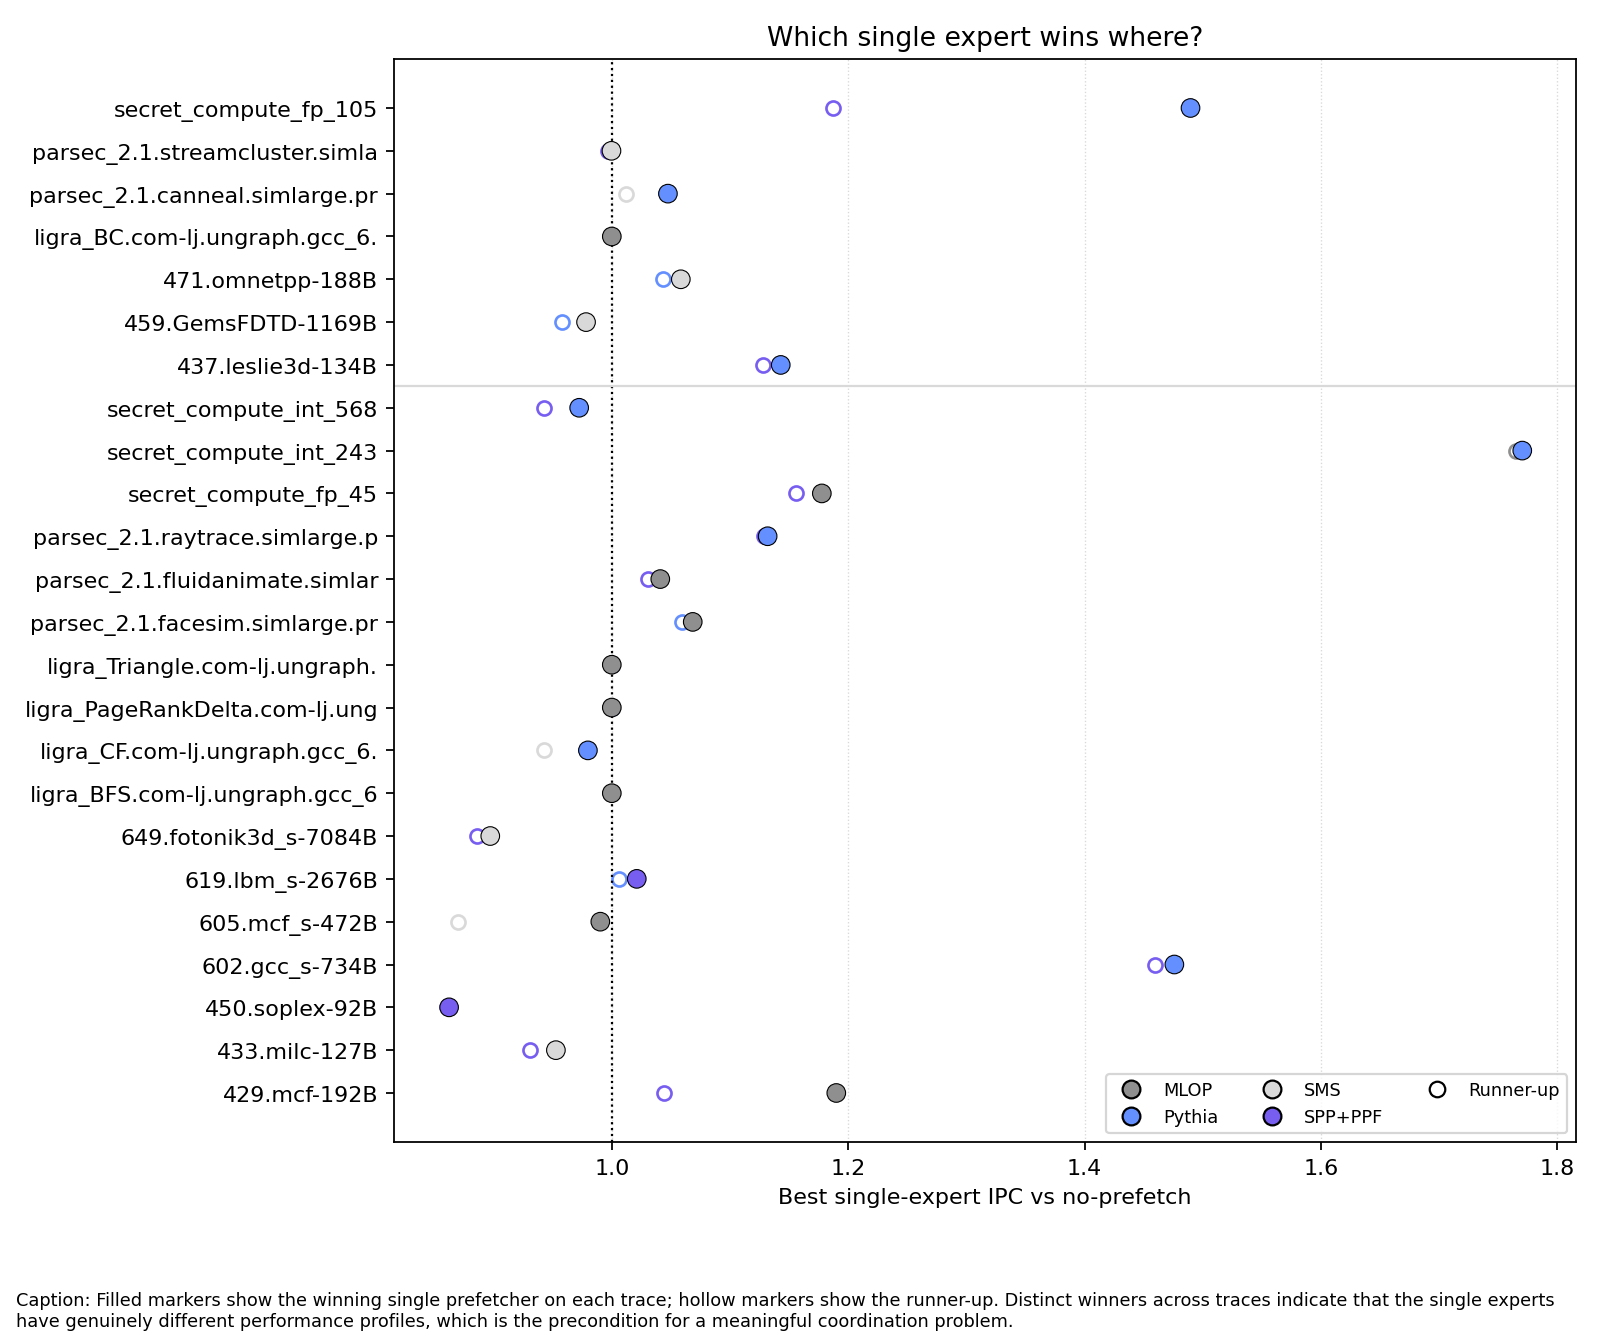
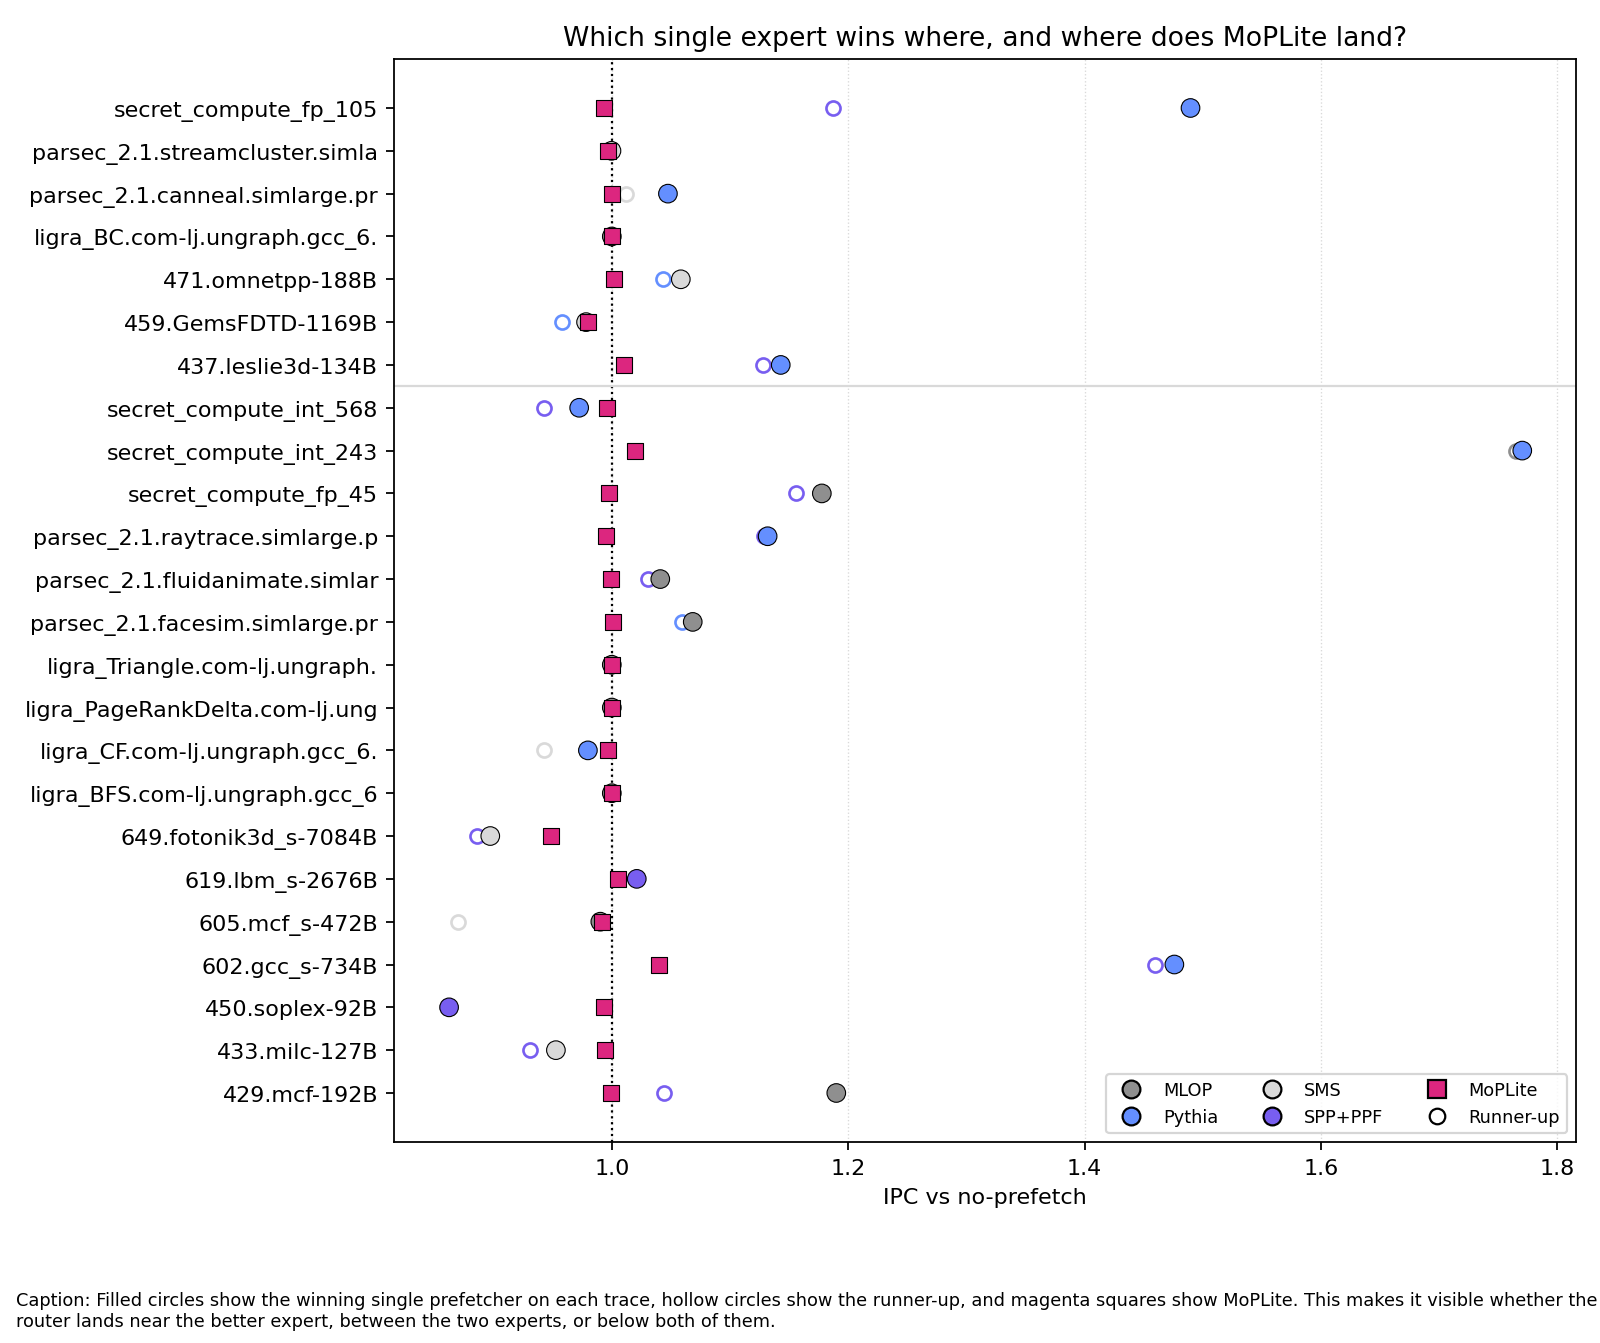
report(stage1): finalize presentation plots and router comparisons

diff --git a/external/athena/src/oogway.cc b/external/athena/src/oogway.cc
@@ -71,13 +71,13 @@ Oogway::Oogway(uint32_t _cpu) : cpu(_cpu) {
   if (knob::mop_enable) {
     srand48(knob::mop_seed + cpu);
     initialize_mop_epoch();
-    if (!knob::mop_epoch_trace.empty()) {
-      std::string filename = knob::mop_epoch_trace + ".core" + std::to_string(cpu) + ".csv";
-      mop_epoch_trace = fopen(filename.c_str(), "w");
-      assert(mop_epoch_trace);
-      fprintf(mop_epoch_trace,
-              "epoch,action,pref0_enabled,pref1_enabled,budget0,budget1,budget_share0,budget_share1,retired_insts,issued0,issued1,useful0,useful1,accuracy0,accuracy1,coverage0,coverage1,score0,score1,overall_bw,pref_bw,pref_pollution\n");
-    }
+  }
+  if (!knob::mop_epoch_trace.empty()) {
+    std::string filename = knob::mop_epoch_trace + ".core" + std::to_string(cpu) + ".csv";
+    mop_epoch_trace = fopen(filename.c_str(), "w");
+    assert(mop_epoch_trace);
+    fprintf(mop_epoch_trace,
+            "epoch,action,pref0_enabled,pref1_enabled,budget0,budget1,budget_share0,budget_share1,retired_insts,issued0,issued1,useful0,useful1,accuracy0,accuracy1,coverage0,coverage1,score0,score1,overall_bw,pref_bw,pref_pollution\n");
   }
 }
 

diff --git a/scripts/make_router_compare_figures.py b/scripts/make_router_compare_figures.py
@@ -36,7 +36,7 @@ ACTION_COLOR = {0: PALETTE["light_grey"], 1: PALETTE["purple"], 2: PALETTE["blue
 
 def parse_args() -> argparse.Namespace:
     p = argparse.ArgumentParser()
-    p.add_argument("--results-dir", type=Path, required=True)
+    p.add_argument("--results-dir", type=Path, action="append", required=True)
     p.add_argument("--out", type=Path, required=True)
     return p.parse_args()
 
@@ -80,7 +80,9 @@ def summarize_epoch_csv(path: Path) -> tuple[dict[str, float], Counter]:
 
 def main() -> int:
     args = parse_args()
-    files = sorted(args.results_dir.rglob("epoch_logs/*.csv"))
+    files = []
+    for results_dir in args.results_dir:
+        files.extend(sorted(results_dir.rglob("epoch_logs/*.csv")))
     assert files, f"No epoch logs found under {args.results_dir}"
 
     by_method_trace: dict[tuple[str, str], dict[str, float]] = {}

diff --git a/report/tables/hardware_budget.md b/report/tables/hardware_budget.md
@@ -16,25 +16,3 @@ Scope-locked Stage 1 control surface (see charter § MoP-lite control surface):
 The epoch length is 500 000 retired instructions (`og_instr_epoch_len`), so
 update frequency ≈ 2 kHz at 1 GHz effective IPC — entirely negligible
 arithmetic cost. No per-access ML inference is introduced in Stage 1.
-
-## AthenaMAB comparison
-
-The main prior coordinator baseline in this repo is `AthenaMAB`. From the
-current code, the careful claim is **not** that `MoPLite` is definitively lower
-storage. The safer claim is that `MoPLite` is a more transparent fixed-rule
-controller.
-
-`AthenaMAB` maintains explicit online-learning state in `oogway.h` / `oogway.cc`:
-
-- `r_arm[8]` and `n_arm[8]` (per-arm rewards and counts)
-- `n_total`
-- discounted-UCB updates each epoch
-
-`MoPLite` instead uses fixed score weights and two-expert counters, with no
-online value estimation. So the comparison supported by the code is:
-
-- `AthenaMAB`: more adaptive, more opaque online controller
-- `MoPLite`: more interpretable, smaller control surface in a scientific sense
-
-That is enough to motivate the comparison, but not enough to claim a strict
-hardware-byte win for `MoPLite` over `AthenaMAB` from Stage 1 alone.

diff --git a/report/draft.md b/report/draft.md
@@ -97,6 +97,7 @@ the later training-side search batch is allowed to tell.
 ### 4.1 Speedup vs no-prefetch
 
 Figure `report/figures/ipc_speedup_summary.png` carries the main baseline story.
+It uses only one normalization: IPC relative to prefetch-off.
 
 ![IPC speedup summary](figures/ipc_speedup_summary.png)
 
@@ -220,7 +221,11 @@ focuses on the same criterion traces and asks a narrower question than the main
 performance plots: when the single-expert ordering is favorable to routing, do
 the compared routers actually choose actions that include the offline-better
 expert, and how much of their action mass is spent on `both off`, single-expert,
-or both-on decisions?
+or both-on decisions? In that figure, `AthenaMAB` is the main prior-method
+comparator and `MoPLite` is the method under study; `WinnerTakeAll` and
+`FixedSplit` remain supporting baselines.
+
+![Router comparison on criterion traces](figures/router_compare_criterion.png)
 
 ### 4.6 What the Stage 1 evidence supports
 

diff --git a/docs/outsider_guide.md b/docs/outsider_guide.md
@@ -375,6 +375,13 @@ current local result is closer to this:
   on some complementary traces, but still fails because its action policy is not
   reliable across the whole criterion set
 
+The report figures now separate those questions cleanly:
+
+- `ipc_speedup_summary.png` is only about beating prefetch-off
+- `single_expert_profiles.png` is about whether the experts genuinely differ
+- `win_loss_mop_vs_best_single.png` is about per-trace losses to the pair-best single
+- `router_compare_criterion.png` is about what the routers actually predicted and whether those actions included the better expert
+
 That does **not** invalidate the method. It does mean the current tracked result
 is a negative performance result against the pair-best single baseline, not a
 success claim.
